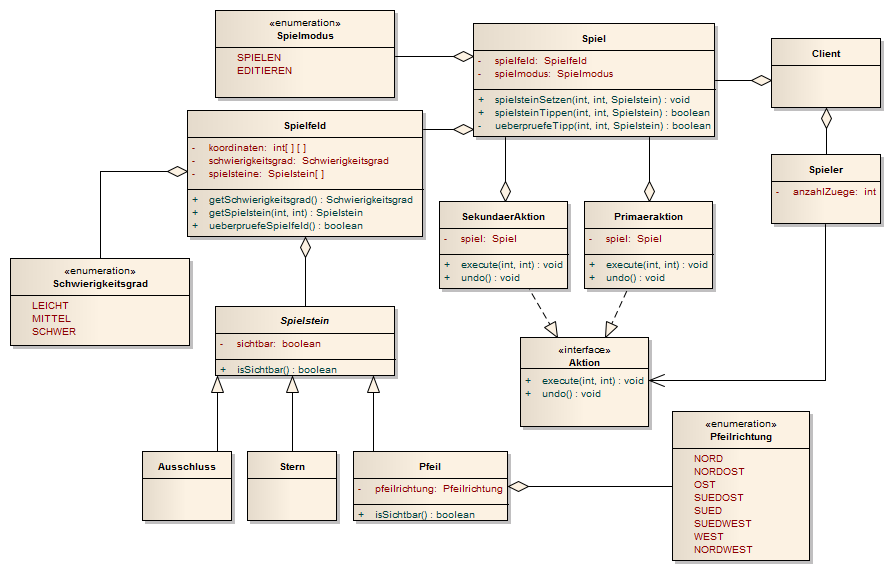
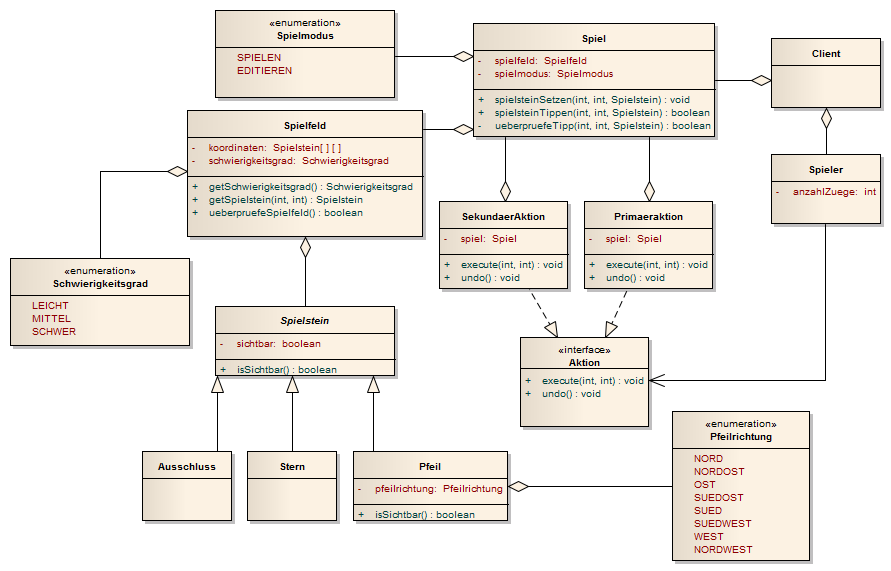
Klassendiagramm aktualisiert

Changed region(s): [[0.2121, 0.2977, 0.4848, 0.4168], [0.303, 0.2382, 0.3939, 0.268]]

diff --git a/klassendiagramm/EARoot/EA13.htm b/klassendiagramm/EARoot/EA13.htm
@@ -2,7 +2,7 @@
 <html xmlns="http://www.w3.org/1999/xhtml">
 <head>
 <meta http-equiv="Content-Type" content="text/html; charset=UTF-8" />
-<title>Klassendiagramm Entwurf::Spielfeld</title>
+<title>Spielfeld</title>
 <link href="../css/ea.css" rel="stylesheet" type="text/css" />
 <script>
 function initPage(src) {
@@ -79,7 +79,7 @@ function initPage(src) {
 			<td width="100%" class="TableHeading">Attribute</td>
 		</tr>
 						<tr>
-				<td width="100%" class="TableRow" valign="top"><i>private int[ ] [ ]</i><br /><strong>&nbsp;&nbsp;koordinaten</strong></td>
+				<td width="100%" class="TableRow" valign="top"><i>private Spielstein[ ] [ ]</i><br /><strong>&nbsp;&nbsp;koordinaten</strong></td>
 			</tr>
 			<tr>
 				<td class="TableRowBottomDashed"  colspan="1">
@@ -100,17 +100,6 @@ function initPage(src) {
 						</div>
 					</div>
 				</td>
-			</tr>			<tr>
-				<td width="100%" class="TableRow" valign="top"><i>private Spielstein[ ]</i><br /><strong>&nbsp;&nbsp;spielsteine</strong></td>
-			</tr>
-			<tr>
-				<td class="TableRowBottomDashed"  colspan="1">
-					<div class="DetailsDivParent"><img src="../images/minus03.gif" align="absmiddle" id="DetailsImageAttributes59" onclick="parent.toggleDiv('detailsDIVAttributes59','DetailsImageAttributes59')" />Details:
-						<div id="detailsDIVAttributes59" class="DetailsDiv" >
-						<i></i>&nbsp;
-						</div>
-					</div>
-				</td>
 			</tr>
 	</table>
 </div>
@@ -127,8 +116,8 @@ function initPage(src) {
 			</tr>
 			<tr>
 				<td class="TableRowBottomDashed"  colspan="1">
-					<div class="DetailsDivParent"><img src="../images/minus03.gif" align="absmiddle" id="DetailsImageOperations60" onclick="parent.toggleDiv('detailsDIVOperations60','DetailsImageOperations60')" />Details:
-						<div id="detailsDIVOperations60" class="DetailsDiv" >
+					<div class="DetailsDivParent"><img src="../images/minus03.gif" align="absmiddle" id="DetailsImageOperations59" onclick="parent.toggleDiv('detailsDIVOperations59','DetailsImageOperations59')" />Details:
+						<div id="detailsDIVOperations59" class="DetailsDiv" >
 					<i>Sequential  </i>
 					<table>
 						<tr>
@@ -200,8 +189,8 @@ function initPage(src) {
 			</tr>
 			<tr>
 				<td class="TableRowBottomDashed"  colspan="1">
-					<div class="DetailsDivParent"><img src="../images/minus03.gif" align="absmiddle" id="DetailsImageOperations61" onclick="parent.toggleDiv('detailsDIVOperations61','DetailsImageOperations61')" />Details:
-						<div id="detailsDIVOperations61" class="DetailsDiv" >
+					<div class="DetailsDivParent"><img src="../images/minus03.gif" align="absmiddle" id="DetailsImageOperations60" onclick="parent.toggleDiv('detailsDIVOperations60','DetailsImageOperations60')" />Details:
+						<div id="detailsDIVOperations60" class="DetailsDiv" >
 					<i>Sequential  </i>
 					<table>
 						<tr>
@@ -224,8 +213,8 @@ function initPage(src) {
 			</tr>
 			<tr>
 				<td class="TableRowBottomDashed"  colspan="1">
-					<div class="DetailsDivParent"><img src="../images/minus03.gif" align="absmiddle" id="DetailsImageOperations62" onclick="parent.toggleDiv('detailsDIVOperations62','DetailsImageOperations62')" />Details:
-						<div id="detailsDIVOperations62" class="DetailsDiv" >
+					<div class="DetailsDivParent"><img src="../images/minus03.gif" align="absmiddle" id="DetailsImageOperations61" onclick="parent.toggleDiv('detailsDIVOperations61','DetailsImageOperations61')" />Details:
+						<div id="detailsDIVOperations61" class="DetailsDiv" >
 					<i>Sequential  </i>
 					<table>
 						<tr>
@@ -275,8 +264,8 @@ function initPage(src) {
 				</tr>
 				<tr>
 					<td class="TableRowBottomDashed"  colspan="3">
-						<div class="DetailsDivParent"><img src="../images/minus03.gif" align="absmiddle" id="DetailsImageLink65" onclick="parent.toggleDiv('detailsDIVLink65','DetailsImageLink65')" />Details:
-							<div id="detailsDIVLink65" class="DetailsDiv" >
+						<div class="DetailsDivParent"><img src="../images/minus03.gif" align="absmiddle" id="DetailsImageLink64" onclick="parent.toggleDiv('detailsDIVLink64','DetailsImageLink64')" />Details:
+							<div id="detailsDIVLink64" class="DetailsDiv" >
 							&nbsp;
 							</div>
 						</div>
@@ -308,8 +297,8 @@ function initPage(src) {
 				</tr>
 				<tr>
 					<td class="TableRowBottomDashed"  colspan="3">
-						<div class="DetailsDivParent"><img src="../images/minus03.gif" align="absmiddle" id="DetailsImageLink66" onclick="parent.toggleDiv('detailsDIVLink66','DetailsImageLink66')" />Details:
-							<div id="detailsDIVLink66" class="DetailsDiv" >
+						<div class="DetailsDivParent"><img src="../images/minus03.gif" align="absmiddle" id="DetailsImageLink65" onclick="parent.toggleDiv('detailsDIVLink65','DetailsImageLink65')" />Details:
+							<div id="detailsDIVLink65" class="DetailsDiv" >
 							&nbsp;
 							</div>
 						</div>
@@ -331,8 +320,8 @@ function initPage(src) {
 				</tr>
 				<tr>
 					<td class="TableRowBottomDashed"  colspan="3">
-						<div class="DetailsDivParent"><img src="../images/minus03.gif" align="absmiddle" id="DetailsImageLink67" onclick="parent.toggleDiv('detailsDIVLink67','DetailsImageLink67')" />Details:
-							<div id="detailsDIVLink67" class="DetailsDiv" >
+						<div class="DetailsDivParent"><img src="../images/minus03.gif" align="absmiddle" id="DetailsImageLink66" onclick="parent.toggleDiv('detailsDIVLink66','DetailsImageLink66')" />Details:
+							<div id="detailsDIVLink66" class="DetailsDiv" >
 							&nbsp;
 							</div>
 						</div>

diff --git a/klassendiagramm/EARoot/EA14.htm b/klassendiagramm/EARoot/EA14.htm
@@ -2,7 +2,7 @@
 <html xmlns="http://www.w3.org/1999/xhtml">
 <head>
 <meta http-equiv="Content-Type" content="text/html; charset=UTF-8" />
-<title>Klassendiagramm Entwurf::Spielmodus</title>
+<title>Spielmodus</title>
 <link href="../css/ea.css" rel="stylesheet" type="text/css" />
 <script>
 function initPage(src) {
@@ -81,8 +81,8 @@ function initPage(src) {
 			</tr>
 			<tr>
 				<td class="TableRowBottomDashed"  colspan="1">
-					<div class="DetailsDivParent"><img src="../images/minus03.gif" align="absmiddle" id="DetailsImageAttributes69" onclick="parent.toggleDiv('detailsDIVAttributes69','DetailsImageAttributes69')" />Details:
-						<div id="detailsDIVAttributes69" class="DetailsDiv" >
+					<div class="DetailsDivParent"><img src="../images/minus03.gif" align="absmiddle" id="DetailsImageAttributes68" onclick="parent.toggleDiv('detailsDIVAttributes68','DetailsImageAttributes68')" />Details:
+						<div id="detailsDIVAttributes68" class="DetailsDiv" >
 						<i>&lt;&lt;enum&gt;&gt;</i>&nbsp;
 						</div>
 					</div>
@@ -92,8 +92,8 @@ function initPage(src) {
 			</tr>
 			<tr>
 				<td class="TableRowBottomDashed"  colspan="1">
-					<div class="DetailsDivParent"><img src="../images/minus03.gif" align="absmiddle" id="DetailsImageAttributes70" onclick="parent.toggleDiv('detailsDIVAttributes70','DetailsImageAttributes70')" />Details:
-						<div id="detailsDIVAttributes70" class="DetailsDiv" >
+					<div class="DetailsDivParent"><img src="../images/minus03.gif" align="absmiddle" id="DetailsImageAttributes69" onclick="parent.toggleDiv('detailsDIVAttributes69','DetailsImageAttributes69')" />Details:
+						<div id="detailsDIVAttributes69" class="DetailsDiv" >
 						<i>&lt;&lt;enum&gt;&gt;</i>&nbsp;
 						</div>
 					</div>
@@ -124,8 +124,8 @@ function initPage(src) {
 				</tr>
 				<tr>
 					<td class="TableRowBottomDashed"  colspan="3">
-						<div class="DetailsDivParent"><img src="../images/minus03.gif" align="absmiddle" id="DetailsImageLink71" onclick="parent.toggleDiv('detailsDIVLink71','DetailsImageLink71')" />Details:
-							<div id="detailsDIVLink71" class="DetailsDiv" >
+						<div class="DetailsDivParent"><img src="../images/minus03.gif" align="absmiddle" id="DetailsImageLink70" onclick="parent.toggleDiv('detailsDIVLink70','DetailsImageLink70')" />Details:
+							<div id="detailsDIVLink70" class="DetailsDiv" >
 							&nbsp;
 							</div>
 						</div>

diff --git a/klassendiagramm/EARoot/EA15.htm b/klassendiagramm/EARoot/EA15.htm
@@ -2,7 +2,7 @@
 <html xmlns="http://www.w3.org/1999/xhtml">
 <head>
 <meta http-equiv="Content-Type" content="text/html; charset=UTF-8" />
-<title>Klassendiagramm Entwurf::Spielstein</title>
+<title>Spielstein</title>
 <link href="../css/ea.css" rel="stylesheet" type="text/css" />
 <script>
 function initPage(src) {
@@ -83,8 +83,8 @@ function initPage(src) {
 			</tr>
 			<tr>
 				<td class="TableRowBottomDashed"  colspan="1">
-					<div class="DetailsDivParent"><img src="../images/minus03.gif" align="absmiddle" id="DetailsImageAttributes73" onclick="parent.toggleDiv('detailsDIVAttributes73','DetailsImageAttributes73')" />Details:
-						<div id="detailsDIVAttributes73" class="DetailsDiv" >
+					<div class="DetailsDivParent"><img src="../images/minus03.gif" align="absmiddle" id="DetailsImageAttributes72" onclick="parent.toggleDiv('detailsDIVAttributes72','DetailsImageAttributes72')" />Details:
+						<div id="detailsDIVAttributes72" class="DetailsDiv" >
 						<i></i>&nbsp;
 						</div>
 					</div>
@@ -105,8 +105,8 @@ function initPage(src) {
 			</tr>
 			<tr>
 				<td class="TableRowBottomDashed"  colspan="1">
-					<div class="DetailsDivParent"><img src="../images/minus03.gif" align="absmiddle" id="DetailsImageOperations74" onclick="parent.toggleDiv('detailsDIVOperations74','DetailsImageOperations74')" />Details:
-						<div id="detailsDIVOperations74" class="DetailsDiv" >
+					<div class="DetailsDivParent"><img src="../images/minus03.gif" align="absmiddle" id="DetailsImageOperations73" onclick="parent.toggleDiv('detailsDIVOperations73','DetailsImageOperations73')" />Details:
+						<div id="detailsDIVOperations73" class="DetailsDiv" >
 					<i>Sequential  </i>
 					<table>
 						<tr>
@@ -156,8 +156,8 @@ function initPage(src) {
 				</tr>
 				<tr>
 					<td class="TableRowBottomDashed"  colspan="3">
-						<div class="DetailsDivParent"><img src="../images/minus03.gif" align="absmiddle" id="DetailsImageLink75" onclick="parent.toggleDiv('detailsDIVLink75','DetailsImageLink75')" />Details:
-							<div id="detailsDIVLink75" class="DetailsDiv" >
+						<div class="DetailsDivParent"><img src="../images/minus03.gif" align="absmiddle" id="DetailsImageLink74" onclick="parent.toggleDiv('detailsDIVLink74','DetailsImageLink74')" />Details:
+							<div id="detailsDIVLink74" class="DetailsDiv" >
 							&nbsp;
 							</div>
 						</div>

diff --git a/klassendiagramm/index.htm b/klassendiagramm/index.htm
@@ -6,7 +6,7 @@
 <link href="css/ea.css" rel="stylesheet" type="text/css" />
 <script language="JavaScript" src="js/displayToc.js" type="text/javascript"></script>
 </head>
-<body onload="initLoad(this,'toc.htm','blank.htm')" onresize="resizePage()">
+<body onload="initLoad(this,'toc.htm','./EARoot/EA1.htm')" onresize="resizePage()">
 <div class="IndexTitle">
 	Klassendiagramm Entwurf
 </div>

diff --git a/klassendiagramm/EARoot/EA9.htm b/klassendiagramm/EARoot/EA9.htm
@@ -2,7 +2,7 @@
 <html xmlns="http://www.w3.org/1999/xhtml">
 <head>
 <meta http-equiv="Content-Type" content="text/html; charset=UTF-8" />
-<title>Klassendiagramm Entwurf::Schwierigkeitsgrad</title>
+<title>Schwierigkeitsgrad</title>
 <link href="../css/ea.css" rel="stylesheet" type="text/css" />
 <script>
 function initPage(src) {

diff --git a/klassendiagramm/EARoot/EA10.htm b/klassendiagramm/EARoot/EA10.htm
@@ -2,7 +2,7 @@
 <html xmlns="http://www.w3.org/1999/xhtml">
 <head>
 <meta http-equiv="Content-Type" content="text/html; charset=UTF-8" />
-<title>Klassendiagramm Entwurf::SekundaerAktion</title>
+<title>SekundaerAktion</title>
 <link href="../css/ea.css" rel="stylesheet" type="text/css" />
 <script>
 function initPage(src) {

diff --git a/klassendiagramm/EARoot/EA7.htm b/klassendiagramm/EARoot/EA7.htm
@@ -2,7 +2,7 @@
 <html xmlns="http://www.w3.org/1999/xhtml">
 <head>
 <meta http-equiv="Content-Type" content="text/html; charset=UTF-8" />
-<title>Klassendiagramm Entwurf::Pfeilrichtung</title>
+<title>Pfeilrichtung</title>
 <link href="../css/ea.css" rel="stylesheet" type="text/css" />
 <script>
 function initPage(src) {

diff --git a/klassendiagramm/EARoot/EA8.htm b/klassendiagramm/EARoot/EA8.htm
@@ -2,7 +2,7 @@
 <html xmlns="http://www.w3.org/1999/xhtml">
 <head>
 <meta http-equiv="Content-Type" content="text/html; charset=UTF-8" />
-<title>Klassendiagramm Entwurf::Primaeraktion</title>
+<title>Primaeraktion</title>
 <link href="../css/ea.css" rel="stylesheet" type="text/css" />
 <script>
 function initPage(src) {

diff --git a/klassendiagramm/EARoot/EA4.htm b/klassendiagramm/EARoot/EA4.htm
@@ -2,7 +2,7 @@
 <html xmlns="http://www.w3.org/1999/xhtml">
 <head>
 <meta http-equiv="Content-Type" content="text/html; charset=UTF-8" />
-<title>Klassendiagramm Entwurf::Ausschluss</title>
+<title>Ausschluss</title>
 <link href="../css/ea.css" rel="stylesheet" type="text/css" />
 <script>
 function initPage(src) {

diff --git a/klassendiagramm/EARoot/EA12.htm b/klassendiagramm/EARoot/EA12.htm
@@ -2,7 +2,7 @@
 <html xmlns="http://www.w3.org/1999/xhtml">
 <head>
 <meta http-equiv="Content-Type" content="text/html; charset=UTF-8" />
-<title>Klassendiagramm Entwurf::Spieler</title>
+<title>Spieler</title>
 <link href="../css/ea.css" rel="stylesheet" type="text/css" />
 <script>
 function initPage(src) {

diff --git a/klassendiagramm/EARoot/EA3.htm b/klassendiagramm/EARoot/EA3.htm
@@ -2,7 +2,7 @@
 <html xmlns="http://www.w3.org/1999/xhtml">
 <head>
 <meta http-equiv="Content-Type" content="text/html; charset=UTF-8" />
-<title>Klassendiagramm Entwurf::Aktion</title>
+<title>Aktion</title>
 <link href="../css/ea.css" rel="stylesheet" type="text/css" />
 <script>
 function initPage(src) {

diff --git a/klassendiagramm/EARoot/EA5.htm b/klassendiagramm/EARoot/EA5.htm
@@ -2,7 +2,7 @@
 <html xmlns="http://www.w3.org/1999/xhtml">
 <head>
 <meta http-equiv="Content-Type" content="text/html; charset=UTF-8" />
-<title>Klassendiagramm Entwurf::Client</title>
+<title>Client</title>
 <link href="../css/ea.css" rel="stylesheet" type="text/css" />
 <script>
 function initPage(src) {
